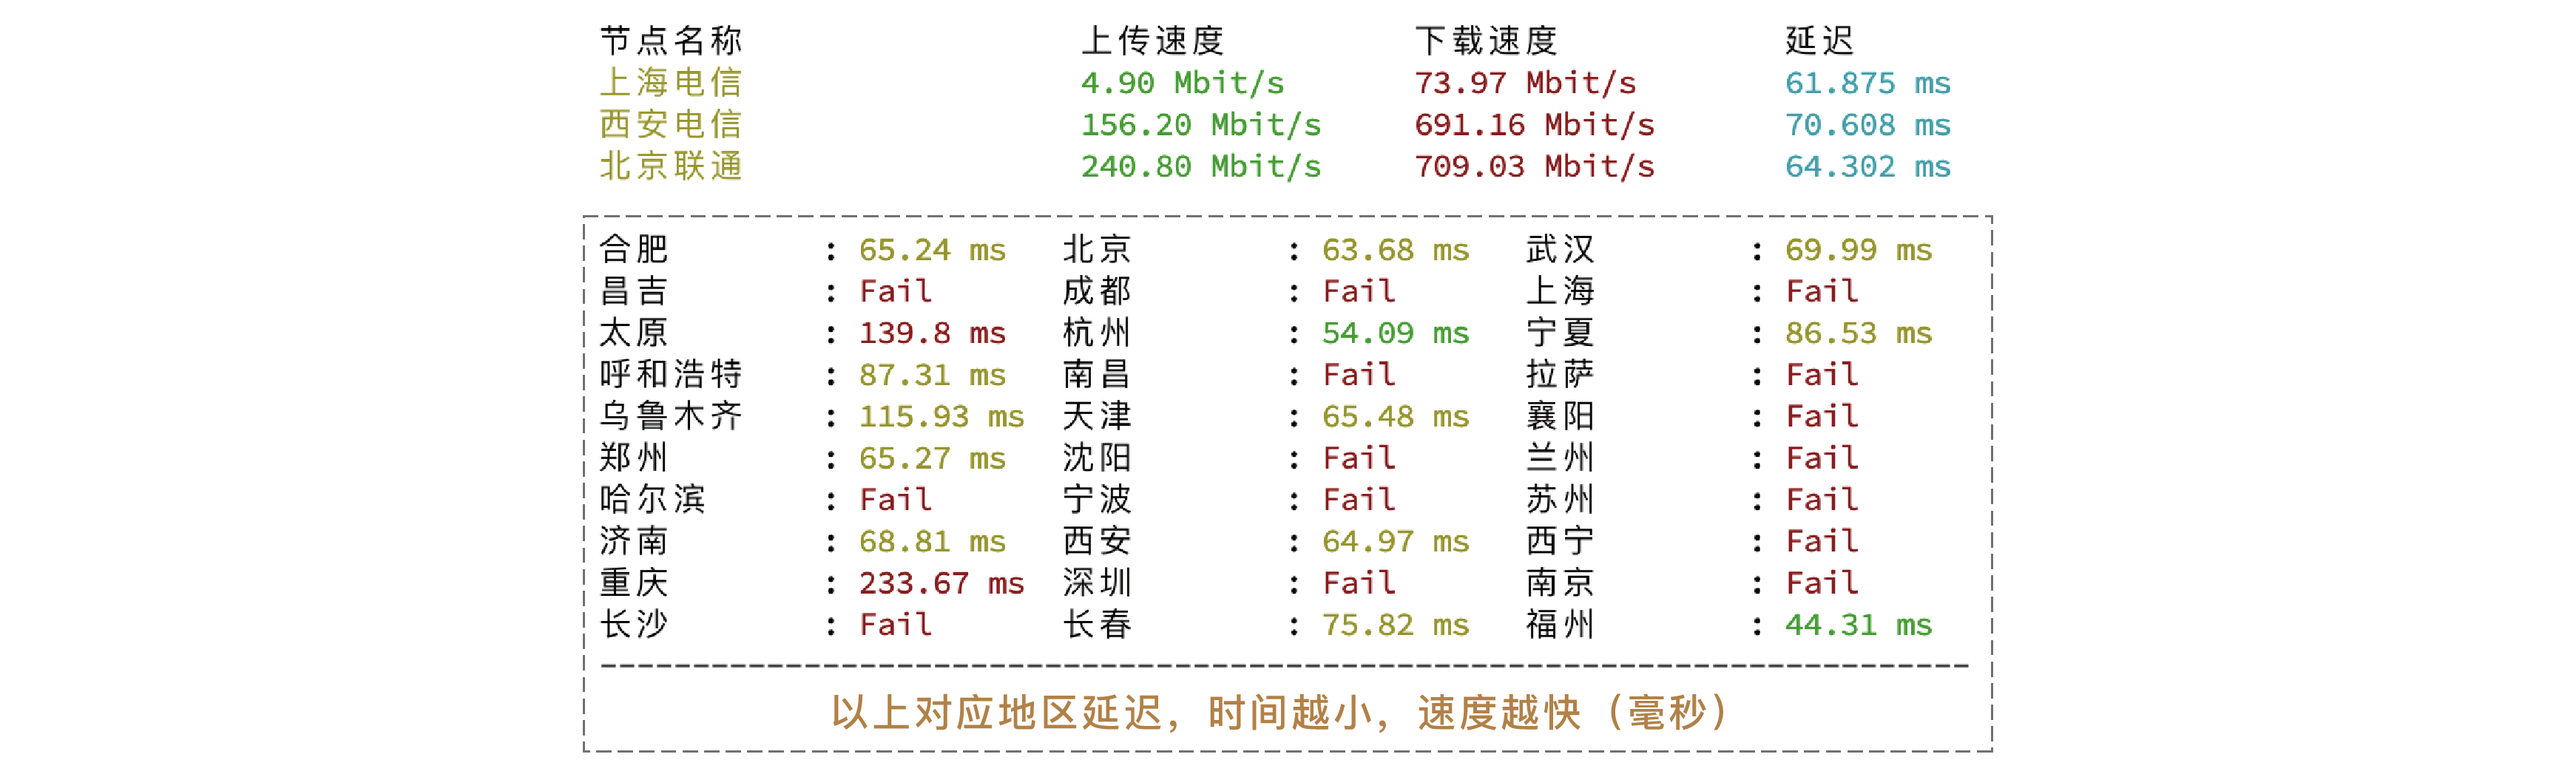
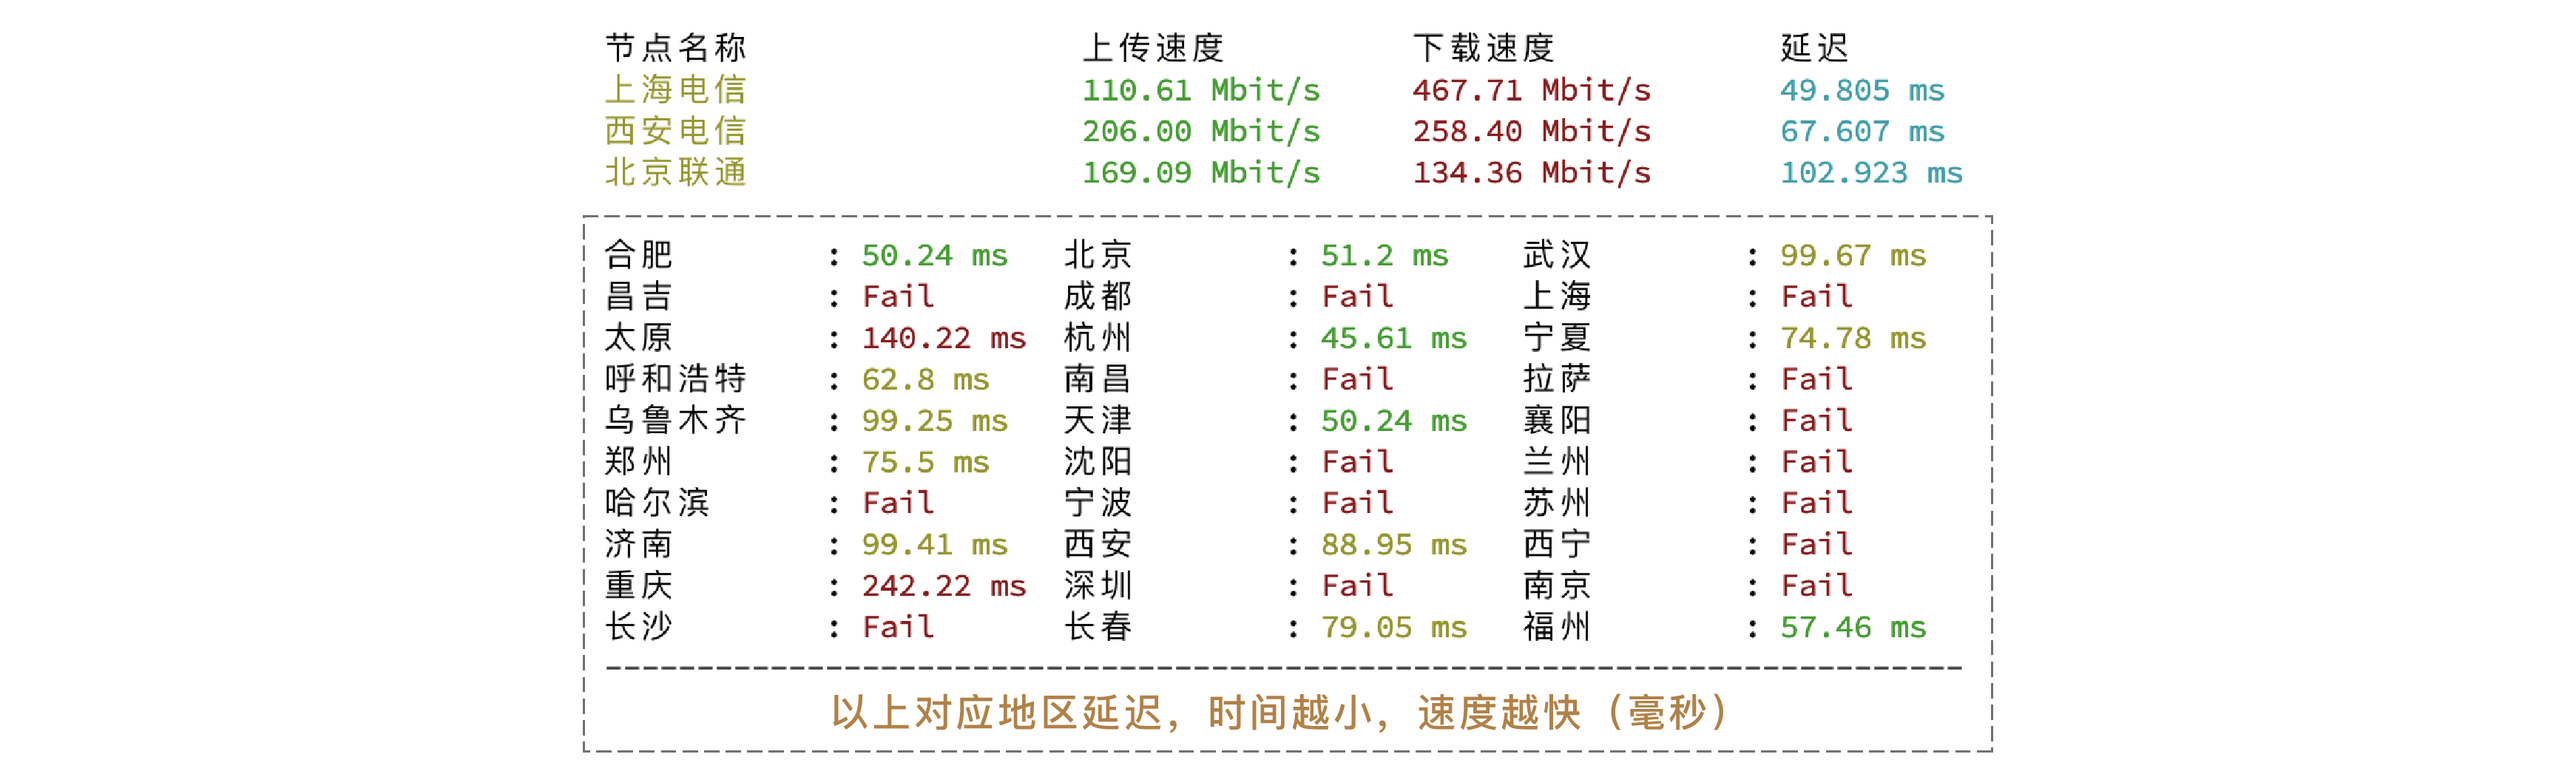
m

diff --git a/elevtor.html b/elevtor.html
@@ -78,7 +78,7 @@
 			                    <span class="image fit"><img src="images/elevtor/Vultr/ip.png" alt="" /></span>
 			                    <span class="image fit"><img src="images/elevtor/Vultr/ping.png" alt="" /></span>
 			                    <span class="image fit"><img src="images/elevtor/Vultr/路由.png" alt="" /></span>
-			                    <p>测试时间：2020-03-31 02:17:17.</p>
+			                    <p>测试时间：2020-04-14 13:27:17.</p>
 			                    <span class="image fit"><img src="images/elevtor/Amazon/ip地址更新Amazon.png" alt="" /></span>
 			                    <span class="image fit"><img src="images/elevtor/Amazon/Amazon-Ping.png" alt="" /></span>
 			                    <span class="image fit"><img src="images/elevtor/Amazon/Amazon路由.jpg" alt="" /></span>
